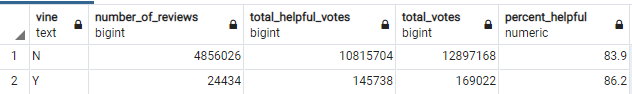
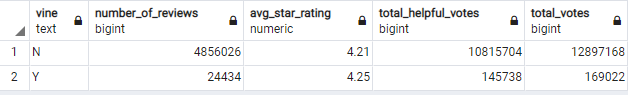
update overall aggregates picture

diff --git a/README.md b/README.md
@@ -17,22 +17,37 @@ The AWS RDS was a Postgres database that was accessed through pgAdmin.  There, s
 The goal of this analysis is to determine if Vine (paid) reviews are trustworthy when compared to all the other non-Vine (unpaid) reviews.
 
 Overall Comparison
+
 ![](Total_counts.PNG)
 
 Overall Aggregates
+
 ![](Overall_aggs.PNG)
+The overall overage star ratings are very similar and do not show an overall bias.
 
 1-Star Comparison
+
 ![](1-Star_aggs.PNG)
+The percentage of 1-star helpful votes are different by only 1.4% and do not show an overall bias.
 
 2-Star Comparison
+
 ![](2-Star_aggs.PNG)
+The percentage of 2-star helpful votes are different by only 1.8% and do not show an overall bias.
 
 3-Star Comparison
+
 ![](3-Star_aggs.PNG)
+The percentage of 3-star helpful votes are different by only 2.7% and do not show an overall bias.
 
 4-Star Comparison
+
 ![](4-Star_aggs.PNG)
+The percentage of 4-star helpful votes are different by only minute percentage and do not show an overall bias.
 
 5-Star Comparison
+
 ![](5-Star_aggs.PNG)
+The percentage of 5-star helpful votes are different by only 1.1% percentage and do not show an overall bias.
+
+After reviewing this data, it is apparent that Vine reviews for Kitchen Category on Amazon are trustworthy.
